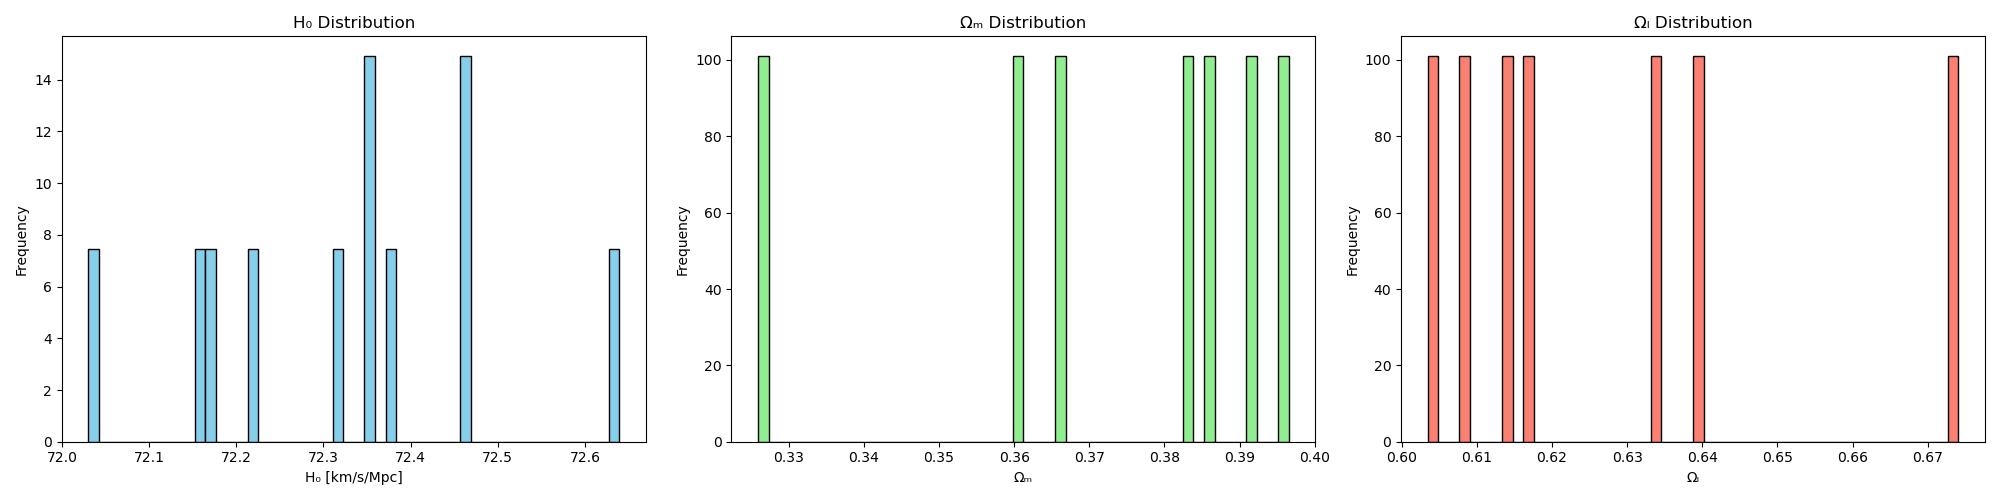
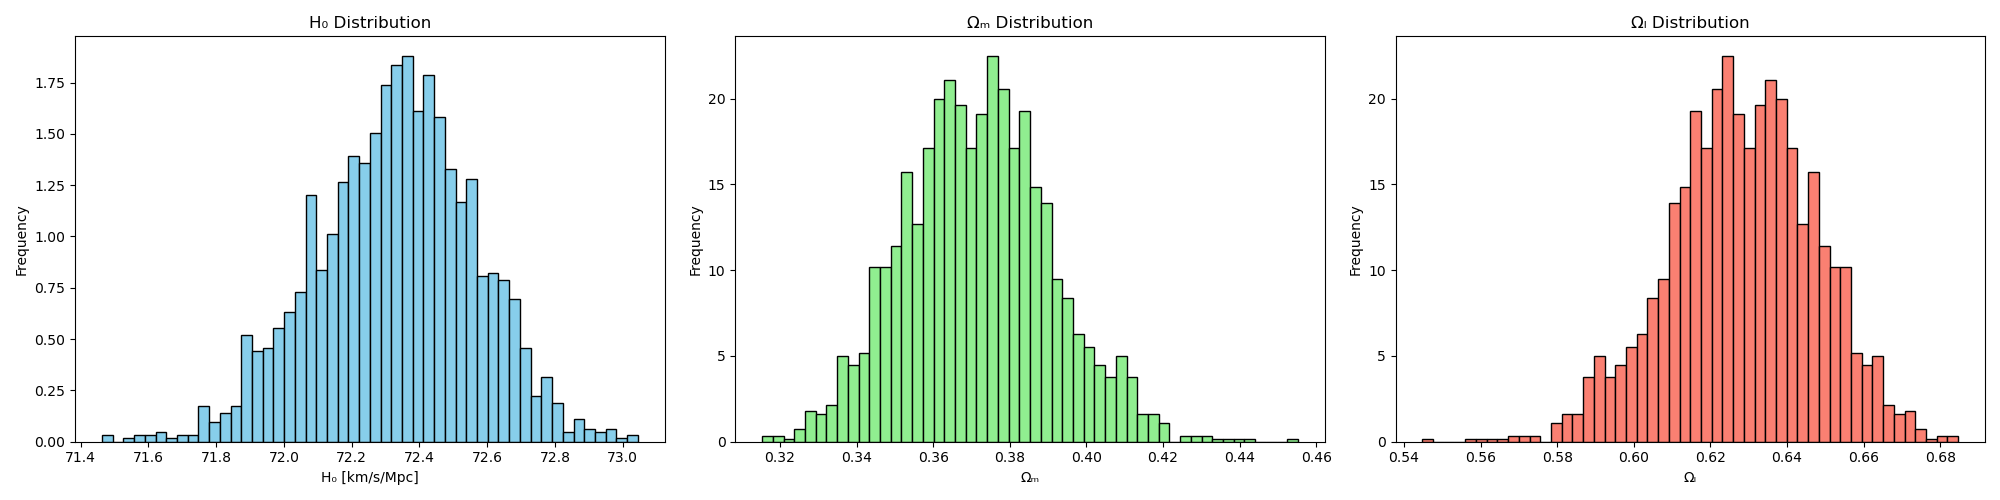
still no progress...

diff --git a/Supernova_project/cosmology_inference.py b/Supernova_project/cosmology_inference.py
@@ -279,13 +279,19 @@ class CosmologyInference:
     def Autocorrelation(self, samples, debug = False):
         """Calculate the autocorrelation of the samples for each parameter"""
         thin_samples = {}
+        autocorr = {}
+        autocorr_length = {}
         for param, values in samples.items():
-            autocorr = numpyro.diagnostics.autocorrelation(values)
-            autocorr_length = int(len(autocorr) / (1 + 2 * np.sum(autocorr)))
-            thin_samples[param] = values[::autocorr_length]
+            autocorr[param] = numpyro.diagnostics.autocorrelation(values)
+            # Calculate the autocorrelation length, excluding the zero-lag autocorrelation
+            autocorr_length[param] = 1 + 2 * np.sum(autocorr[param][1:])
+            if autocorr_length[param] <= 0:
+                raise ValueError(f"Calculated negative or zero autocorrelation length for {param}: {autocorr_length[param]}")
+            thin_samples[param] = values[::int(autocorr_length[param])]
             if debug:
-                print(f"Autocorrelation length for {param}: {autocorr_length}, with {len(values)} samples, resulting in {len(thin_samples[param])} samples")
+                print(f"Autocorrelation length for {param}: {autocorr_length[param]}, with {len(values)} samples, resulting in {len(thin_samples[param])} samples")
         return thin_samples
+
     
 # Example usage
 if __name__ == "__main__":
@@ -295,9 +301,10 @@ if __name__ == "__main__":
     # Run flat model
     print("Running flat ΛCDM model...")
     flat_samples = cosmo.run_inference(model_type="flat")
+    
     # Test for autocorrelation and discard correlated samples
     thin_flat_samples = cosmo.Autocorrelation(flat_samples, debug = True)
-    cosmo.plot_samples(thin_flat_samples, model_type="flat")
+    cosmo.plot_samples(flat_samples, model_type="flat")
     
     # Run curved model
     #print("\nRunning curved ΛCDM model...")
